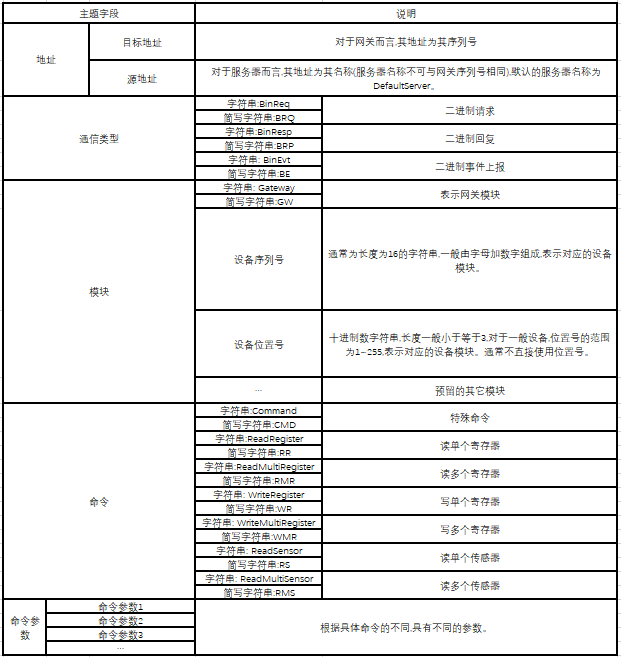
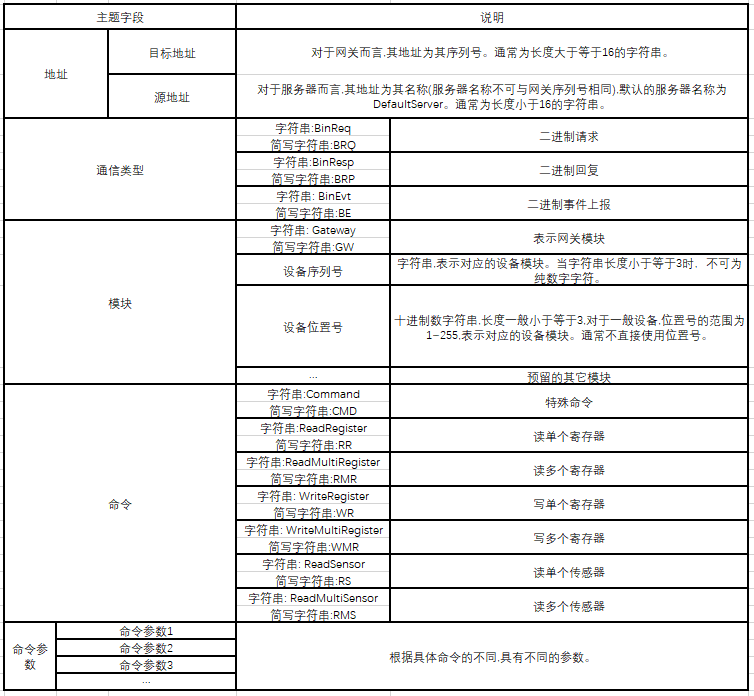
修复文档显示错误，调整部分说明

diff --git a/doc/Protocol/ReadMe.md b/doc/Protocol/ReadMe.md
@@ -59,7 +59,7 @@ MQTT的主要连接参数为:ClientID、Username、Password、CleanSession、Kee
 
 ##  消息主题(topic)
 
-主题格式为: **[**目的地址]/[源地址]/[通信类型]/[模块]/[命令]/[命令参数1]/[命令参数2]/[命令参数3]/…,为防止主题溢出,最大主题长度为128字节。主题中的字母均需要区分大小写。
+主题格式为: [目的地址]/[源地址]/[通信类型]/[模块]/[命令]/[命令参数1]/[命令参数2]/[命令参数3]/…,为防止主题溢出,最大主题长度为128字节。主题中的字母均需要区分大小写。
 
 ![MQTT消息格式](MQTT消息格式.png)  
 
@@ -67,7 +67,9 @@ MQTT的主要连接参数为:ClientID、Username、Password、CleanSession、Kee
 
 所有字段若有简写形式，那么在通信过程中必须使用简写形式，非简写形式仅用于文档编辑或者程序编写(取函数名)。正常情况下,BinReq与BinResp均应成对出现。当进行BinEvt上报时,所有的主题字段均应当使用简写形式,模块字段应当使用设备序列号。
 
-默认的服务器名称为DefaultServer,如只有一个服务端(即后端服务),则无需使用另外的名称。客户端回复时目的地址为服务端请求时的源地址,源地址为自身序列号。当客户端进行上报操作时,目的地址为默认的服务器名称。 
+默认的服务器名称为DefaultServer,如只有一个服务端(即后端服务),则无需使用另外的名称。客户端回复时目的地址为服务端请求时的源地址,源地址为自身序列号。当客户端进行上报操作时,目的地址为默认的服务器名称。
+
+网关序列号与设备序列号通常作为网关与设备的唯一标识，可具体区分到某一个网关与设备。序列号通常可在出厂时烧录，若芯片具有唯一性的数据，如MAC地址、芯片序列号等，可通过一系列算法生成自身序列号。 
 
 ## 负载数据(payload)
 
